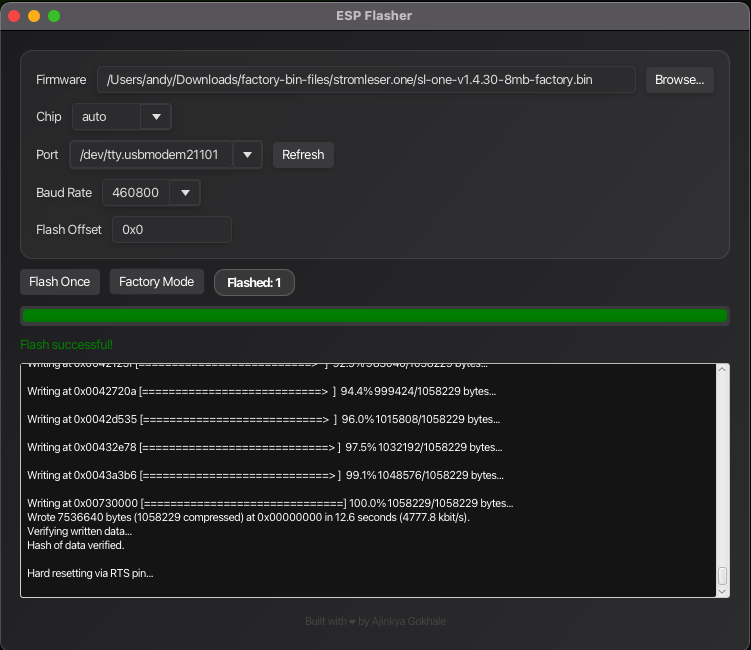
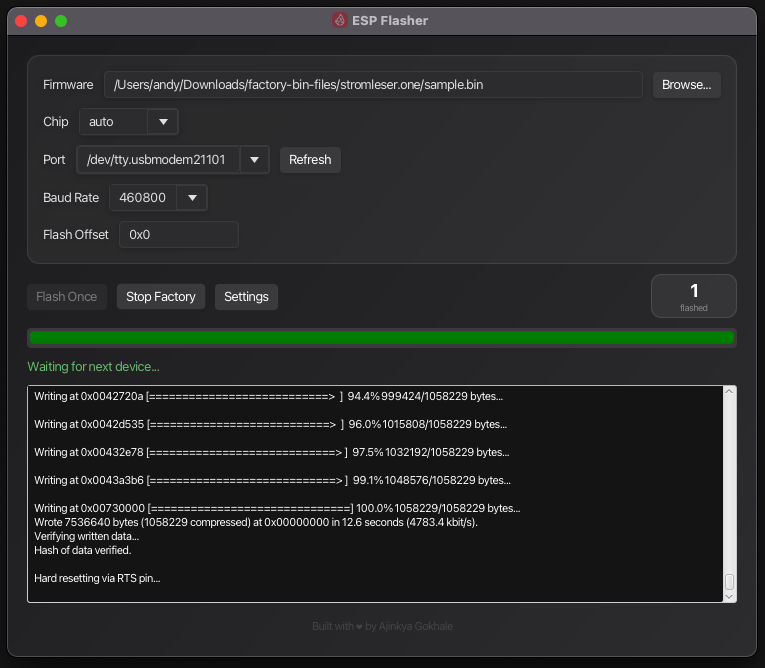
readme-updated

diff --git a/README.md b/README.md
@@ -1,333 +1,128 @@
-# ESP Flasher — Cross-Platform GUI Firmware Flashing Tool for ESP32 and ESP8266
+# ESP Flasher — GUI Firmware Flashing Tool for ESP32 and ESP8266
 
-**ESP Flasher** is a free, open-source desktop application for flashing firmware to Espressif **ESP32**, **ESP32-S2/S3/C3/C6/H2**, and **ESP8266** microcontrollers. It provides a clean JavaFX graphical interface on top of the official [`esptool`](https://github.com/espressif/esptool) — a modern alternative to **Tasmotizer**, the **Tasmota Web Installer**, and **ESP Flash Download Tool** that runs natively on macOS and Windows.
+**ESP Flasher** is a free, open-source desktop app for flashing firmware to Espressif **ESP32**, **ESP32-S2/S3/C3/C6/H2**, and **ESP8266** microcontrollers. It wraps the official [`esptool`](https://github.com/espressif/esptool) in a native JavaFX GUI — no command line needed.
 
-If you have ever fought with the `esptool.py` command line, hunted for the right baud rate, or needed to flash the same firmware onto dozens of boards on a production line, ESP Flasher is built for you.
+Works on **macOS** (Apple Silicon + Intel) and **Windows**. Flash **Tasmota**, **ESPHome**, **WLED**, **MicroPython**, **Arduino**, and custom ESP-IDF firmware from a single `.bin` file. A modern alternative to **Tasmotizer** and the **Espressif Flash Download Tool** that runs natively on Mac.
 
----
-
-## Table of Contents
-
-- [Why ESP Flasher](#why-esp-flasher)
-- [Features](#features)
-- [Supported Espressif Chips](#supported-espressif-chips)
-- [ESP Flasher vs Tasmotizer vs ESP Flash Download Tool](#esp-flasher-vs-tasmotizer-vs-esp-flash-download-tool)
-- [Screenshots](#screenshots)
-- [Download and Installation](#download-and-installation)
-- [Prerequisites](#prerequisites)
-- [How to Flash an ESP32 — Step by Step](#how-to-flash-an-esp32--step-by-step)
-- [Factory Mode for Mass Flashing](#factory-mode-for-mass-flashing)
-- [How It Works](#how-it-works)
-- [Building From Source](#building-from-source)
-- [Releases](#releases)
-- [Troubleshooting](#troubleshooting)
-- [FAQ](#faq)
-- [Contributing](#contributing)
-- [License](#license)
-- [Credits](#credits)
-
----
-
-## Why ESP Flasher
-
-Most ESP32 / ESP8266 firmware flashing tools fall into one of three buckets:
-
-- **Command-line `esptool`** — powerful but unforgiving, with no progress UI and no port auto-detection.
-- **Browser-based flashers** (Tasmota Web Installer, ESP Web Tools) — convenient, but tied to Chrome's Web Serial API and not suitable for offline or production environments.
-- **Vendor GUIs** (Espressif Flash Download Tool, Tasmotizer) — Windows-first, Python-heavy, and not designed for repeated batch flashing.
-
-ESP Flasher fills the gap: a small, native, cross-platform GUI that drives the same battle-tested `esptool` underneath, with a dedicated **Factory Mode** for flashing many boards in sequence.
+![ESP Flasher main window on macOS — flashing an ESP32 firmware binary](docs/screenshots/main.png)
 
 ---
 
 ## Features
 
-- Native installers for **macOS** (`.dmg`) and **Windows** (`.msi`) — no Python GUI required to launch
-- Automatic detection of ESP32 and ESP8266 serial ports (CP210x, CH340, FTDI)
-- Selectable **chip type**, **baud rate** up to 921600, and custom **flash offset**
-- Live progress bar and full real-time `esptool` log output
-- Audible success / failure feedback for hands-free workflows
-- **Factory Mode** — auto-flashes every ESP board the moment it is connected
+- Native `.dmg` and `.msi` installers — no Python GUI required to launch
+- Automatic ESP32/ESP8266 serial port detection (CP210x, CH340, FTDI)
+- Selectable chip type, baud rate up to 921600, and custom flash offset
+- Live progress bar and real-time `esptool` log output
+- **Factory Mode** — auto-flashes every ESP board the moment it is plugged in
 - One-click `esptool` install via `pip` if it is missing
 - Automatic light / dark theme based on system appearance
 - Persistent flash counter for production runs
-- 100% open source under the MIT license
+- 100% open source — MIT license, no telemetry
 
 ---
 
-## Supported Espressif Chips
+## Download
 
-ESP Flasher supports every chip the underlying `esptool` supports:
+| Platform | Installer |
+| -------- | --------- |
+| macOS (Apple Silicon & Intel) | [ESP.Flasher-1.0.3.dmg](https://github.com/AjinkyaGokhale/esp-flasher-java/releases/download/v1.0.3/ESP.Flasher-1.0.3.dmg) |
+| Windows | [ESP.Flasher-1.0.3.msi](https://github.com/AjinkyaGokhale/esp-flasher-java/releases/download/v1.0.3/ESP.Flasher-1.0.3.msi) |
 
-`auto` (autodetect), **ESP32**, **ESP32-S2**, **ESP32-S3**, **ESP32-C3**, **ESP32-C6**, **ESP32-H2**, **ESP8266**.
-
-Common boards that work out of the box: NodeMCU, Wemos D1 Mini, ESP32 DevKitC, ESP32-S3 DevKitC, ESP32-C3 SuperMini, M5Stack, Seeed XIAO ESP32 series, LilyGO T-Display, Adafruit Feather ESP32, Sonoff Basic / Mini (for Tasmota, ESPHome, WLED firmware), and most generic Espressif modules.
-
----
-
-## ESP Flasher vs Tasmotizer vs ESP Flash Download Tool
-
-| Capability                   | ESP Flasher              | Tasmotizer              | ESP Flash Download Tool | esptool CLI       |
-| ---------------------------- | ------------------------ | ----------------------- | ----------------------- | ----------------- |
-| macOS native installer       | Yes (.dmg)               | No (Python required)    | No                      | CLI only          |
-| Windows native installer     | Yes (.msi)               | Yes                     | Yes                     | CLI only          |
-| Auto-detects ESP serial port | Yes                      | Partial                 | No                      | No                |
-| Factory / batch flash mode   | Yes                      | No                      | Limited                 | Scripted          |
-| Tasmota / ESPHome / WLED     | Yes (any `.bin`)         | Tasmota-only            | Yes                     | Yes               |
-| Open source                  | Yes (MIT)                | Yes (GPL)               | No                      | Yes (GPL)         |
-| Dark mode                    | Yes (auto)               | No                      | No                      | N/A               |
-
-ESP Flasher is a **drop-in alternative for Tasmotizer users on macOS** and a lighter alternative to the Espressif Flash Download Tool for anyone flashing custom firmware (Tasmota, ESPHome, WLED, MicroPython, Arduino sketches, ESP-IDF builds).
-
----
-
-## Screenshots
-
-![ESP Flasher main window on macOS — flashing an ESP32 firmware binary](docs/screenshots/main.png)
-
-*ESP Flasher on macOS in dark mode, mid-flash of an 8 MB factory binary at 460800 baud.*
-
----
-
-## Download and Installation
-
-Download the latest installer for your platform from the
-[GitHub Releases](https://github.com/AjinkyaGokhale/esp-flasher-java/releases/latest) page:
-
-| Platform | Download                                                                                                                                                                    | Notes                                          |
-| -------- | --------------------------------------------------------------------------------------------------------------------------------------------------------------------------- | ---------------------------------------------- |
-| macOS    | [ESP.Flasher-1.0.3.dmg](https://github.com/AjinkyaGokhale/esp-flasher-java/releases/download/v1.0.3/ESP.Flasher-1.0.3.dmg)   | Apple Silicon and Intel. Unsigned (see below). |
-| Windows  | [ESP.Flasher-1.0.3.msi](https://github.com/AjinkyaGokhale/esp-flasher-java/releases/download/v1.0.3/ESP.Flasher-1.0.3.msi)   | Unsigned (see below).                          |
-
-### macOS — install
-
-1. Open the `.dmg` file and drag **ESP Flasher** into your Applications folder.
-2. The build is currently unsigned. If macOS Gatekeeper blocks the app, run:
-
+**macOS:** Drag to Applications. If Gatekeeper blocks it:
 ```bash
 xattr -cr "/Applications/ESP Flasher.app"
 ```
 
-### Windows — install
+**Windows:** Run the `.msi`. If SmartScreen warns you, choose **More info → Run anyway**.
 
-1. Run the `.msi` installer and follow the setup wizard.
-2. SmartScreen may show a warning the first time. Choose **More info → Run anyway**.
+Both installers are currently unsigned.
 
 ---
 
 ## Prerequisites
 
-ESP Flasher delegates the actual flashing to [`esptool`](https://github.com/espressif/esptool), which requires Python 3.
-
-| Requirement | Notes                                                                                            |
-| ----------- | ------------------------------------------------------------------------------------------------ |
-| Python 3.x  | Required. macOS users can install via [python.org](https://python.org) or Homebrew.              |
-| `esptool`   | The app detects and offers to install it via `pip` on first launch if it is missing.             |
-| USB drivers | Boards with CP210x or CH340 USB-to-serial chips need vendor drivers on Windows and older macOS.  |
-
-The app probes these locations for Python: `/opt/homebrew/bin/python3`, `/usr/local/bin/python3`, `/usr/bin/python3`, and `python3` / `python` / `py` from `PATH`.
+- **Python 3** — required by `esptool`. Install from [python.org](https://python.org) or Homebrew.
+- **`esptool`** — the app detects it and offers to install via `pip` on first launch.
+- **USB drivers** — boards with CP210x or CH340 USB-to-serial chips may need vendor drivers on Windows and older macOS.
 
 ---
 
-## How to Flash an ESP32 — Step by Step
+## How to Flash ESP32 or ESP8266 Firmware
 
-1. Click **Browse...** and pick your firmware `.bin` file (Tasmota, ESPHome, WLED, MicroPython, Arduino, or ESP-IDF builds all work).
+1. Click **Browse...** and pick your firmware `.bin` file (Tasmota, ESPHome, WLED, MicroPython, Arduino, or ESP-IDF).
 2. Select the **Chip** (or leave on `auto` to let `esptool` detect it).
-3. Select the **Port** for your board (use **Refresh** to rescan).
-4. Choose a **Baud Rate**. `460800` is a safe default; `921600` is faster if your USB-serial chip can handle it.
-5. Set the **Flash Offset**. Use `0x0` for merged/full ESP32 binaries, `0x1000` for ESP32 bootloader-only images, `0x10000` for application-only images, and `0x0` for ESP8266.
+3. Select the **Port** — click **Refresh** if your board isn't listed.
+4. Choose a **Baud Rate** — `460800` is a safe default; `921600` is faster if your USB-serial chip supports it.
+5. Set the **Flash Offset**: `0x0` for merged ESP32 binaries and all ESP8266, `0x1000` for ESP32 bootloader-only, `0x10000` for application-only.
 6. Click **Flash Once**.
 
-The log area mirrors the full `esptool` output in real time, including chip detection, MAC address, and flash progress.
+### Factory Mode — Mass Flash ESP Boards
+
+For flashing the same firmware onto many boards in sequence (production runs, classroom kits, repair shops):
+
+1. Select firmware, chip, baud rate, and offset.
+2. Click **Factory Mode** — the app waits for a device.
+3. Plug in a board. It flashes automatically.
+4. Unplug when done (green bar + chime), plug in the next one.
+5. Click **Stop Factory** when finished. The **Flashed:** counter tracks your total.
 
 ---
 
-## Factory Mode for Mass Flashing
+## Supported Espressif Chips
 
-**Factory Mode is built for factories and small manufacturers who need to flash the same firmware onto hundreds or thousands of ESP boards.** Instead of clicking through the UI for every single device, an operator just selects the firmware once, switches on Factory Mode, and then plugs and unplugs ESP devices one after another — the flasher auto-detects each new board on the USB bus and immediately flashes it.
+`auto` (autodetect), **ESP32**, **ESP32-S2**, **ESP32-S3**, **ESP32-C3**, **ESP32-C6**, **ESP32-H2**, **ESP8266**.
 
-This turns ESP Flasher into a true production-line tool: no port selection, no extra clicks, no chance of forgetting a step. An operator with no technical knowledge can run a flashing station all day.
-
-### How Factory Mode works
-
-1. **Select the firmware once.** Click **Browse...** and pick the `.bin` file you want to flash to every device.
-2. **Set chip, baud rate, and flash offset** for your target board. A port does **not** need to be selected — Factory Mode discovers it automatically.
-3. **Click Factory Mode** and confirm the dialog. The app now waits for any ESP device to appear on USB.
-4. **Plug in a board.** ESP Flasher detects the new serial port within a second, opens the connection, and flashes the selected firmware automatically. The progress bar and log update in real time.
-5. **Unplug the board** when the flash completes (green bar + success chime).
-6. **Plug in the next board.** Repeat — the cycle continues hands-free for as many units as you need.
-7. **Watch the Flashed: counter** in the toolbar to track how many units have been completed in the current session.
-8. **Click Stop Factory** when the batch is done.
-
-### Why this matters for production
-
-- **Throughput.** A trained operator can comfortably flash one board every 10–15 seconds — that is 240+ boards per hour with no command-line interaction.
-- **Zero configuration per unit.** Each device uses the exact same firmware, chip type, baud rate, and offset — guaranteeing consistency across the entire batch.
-- **Mistake-proof.** There is no port dropdown to misclick and no command to mistype, which removes the most common sources of human error on a manual flashing line.
-- **Audible feedback.** Success and failure tones let an operator keep their eyes on the boards instead of the screen.
-- **Built-in counter.** The persistent **Flashed:** badge doubles as a simple production tally for shift reporting.
-
-Factory Mode is ideal for small-batch IoT product manufacturers, contract assemblers, hardware startups doing their first production run, repair shops re-flashing returned units, and educational kit makers preparing classroom sets.
-
----
-
-## How It Works
-
-```mermaid
-flowchart LR
-    UI[FlasherApp - JavaFX UI]
-    PRQ[PrereqChecker]
-    PW[PortWatcher - jSerialComm]
-    ER[EsptoolRunner]
-    ET[esptool - Python]
-    DEV[ESP Device]
-
-    UI -->|verify Python and esptool| PRQ
-    UI -->|watch for new ports| PW
-    PW -->|onNewPort| UI
-    UI -->|FlashConfig| ER
-    ER -->|spawn process| ET
-    ET -->|serial| DEV
-    ET -->|stdout / progress| ER
-    ER -->|onLog / onProgress / onComplete| UI
-```
-
-- **`PrereqChecker`** locates Python, `pip`, and `esptool`, and can install `esptool` via `pip install --break-system-packages esptool`.
-- **`PortWatcher`** (jSerialComm) lists serial ports and filters for ESP-like USB descriptors; in Factory Mode it polls for newly attached devices and notifies the UI.
-- **`EsptoolRunner`** spawns `esptool write_flash` as a subprocess, streams stdout, parses progress percentages, and reports completion.
-- **`FlasherApp`** is the JavaFX `Application` and implements `FlashListener` / `PortListener` to receive callbacks on the JavaFX thread.
+Works with NodeMCU, Wemos D1 Mini, ESP32 DevKitC, ESP32-S3 DevKitC, ESP32-C3 SuperMini, M5Stack, Seeed XIAO ESP32, LilyGO T-Display, Adafruit Feather ESP32, Sonoff Basic/Mini, and most generic Espressif modules.
 
 ---
 
 ## Building From Source
 
-### Requirements
-
-- JDK 17 or newer (the release workflow uses JDK 21)
-- Maven, or the included `mvnw` wrapper
-
-### Build a runnable fat jar
+Requires JDK 17+ and Maven (or the included `mvnw` wrapper).
 
 ```bash
+# Run from source
 ./mvnw clean package
 java -jar target/espflasher-1.0.3.jar
-```
 
-### Build a native installer
-
-`jpackage` ships with the JDK. The Maven profile picks the right format for your OS automatically (DMG on macOS, MSI on Windows).
-
-```bash
+# Build native installer (DMG on macOS, MSI on Windows)
 ./mvnw clean package
 ./mvnw jpackage:jpackage
-```
-
-Output is written to `target/dist/`.
-
----
-
-## Releases
-
-Tagged pushes (`v*`) trigger the GitHub Actions workflow in `.github/workflows/`, which builds the macOS DMG and Windows MSI in parallel and attaches them to a GitHub Release.
-
-To cut a release:
-
-```bash
-git tag v1.0.2
-git push origin v1.0.2
+# Output: target/dist/
 ```
 
 ---
 
 ## Troubleshooting
 
-| Symptom                                              | Likely cause and fix                                                                                          |
-| ---------------------------------------------------- | -------------------------------------------------------------------------------------------------------------- |
-| "Python not found"                                   | Install Python 3 from [python.org](https://python.org) and restart the app.                                    |
-| "esptool not found — click here to install"          | Click the status label, or run `python3 -m pip install esptool` manually.                                      |
-| No ports listed                                      | Install your board's USB-to-serial driver (CP210x, CH340, or FTDI), then click **Refresh**.                    |
-| "Failed to connect to ESP*: Timed out"               | Hold the BOOT button while plugging in or starting the flash. Try a lower baud (e.g. `115200`).                |
-| macOS: "App is damaged and can't be opened"          | `xattr -cr "/Applications/ESP Flasher.app"`                                                              |
-| Flash succeeds but firmware does not run             | Check the **Flash Offset**. Many ESP32 boards expect `0x1000` or `0x10000` instead of `0x0`.                    |
+| Symptom | Fix |
+| ------- | --- |
+| "Python not found" | Install Python 3 from [python.org](https://python.org) and restart. |
+| "esptool not found" | Click the status label, or run `python3 -m pip install esptool`. |
+| No ports listed | Install your board's USB-serial driver (CP210x, CH340, FTDI), then click **Refresh**. |
+| "Timed out connecting to ESP" | Hold BOOT while plugging in. Try a lower baud rate (e.g. `115200`). |
+| macOS: "App is damaged and can't be opened" | `xattr -cr "/Applications/ESP Flasher.app"` |
+| Firmware doesn't run after flash | Check the flash offset — many ESP32 images need `0x1000` or `0x10000`. |
 
-Full `esptool` output is always available in the log area at the bottom of the window — copy it when filing an issue.
-
----
-
-## FAQ
-
-**Is ESP Flasher free?**
-Yes. It is fully open source under the MIT license. No ads, no telemetry, no paywalled features.
-
-**Can I flash Tasmota with ESP Flasher?**
-Yes. Download any `tasmota*.bin` from the Tasmota release page and flash at offset `0x0` for ESP8266 or the appropriate offset for your ESP32 variant.
-
-**Can I flash ESPHome firmware?**
-Yes. Export the compiled binary from the ESPHome dashboard (`Download → Modern format`) and flash it like any other `.bin`.
-
-**Can I flash WLED?**
-Yes. Pick the WLED ESP8266 or ESP32 binary that matches your board and flash at offset `0x0`.
-
-**Does it work on Linux?**
-The code is pure Java + JavaFX and will run on Linux from source. Pre-built Linux installers are not yet published — contributions to the release workflow are welcome.
-
-**Does it require an internet connection?**
-Only the first launch, if `esptool` is not already installed (so `pip` can fetch it). After that everything is offline.
-
-**Is the build signed?**
-Not yet. The macOS DMG and Windows MSI are unsigned; instructions for bypassing Gatekeeper / SmartScreen are above.
+The full `esptool` output is visible in the log area — include it when filing an issue.
 
 ---
 
 ## Contributing
 
-Contributions are welcome. Please read [CONTRIBUTING.md](CONTRIBUTING.md) for development setup, coding conventions, and the pull-request workflow.
-
-If you have found a bug or want a new feature, open an [issue](../../issues) first so we can discuss the approach.
-
----
+Open an [issue](../../issues) before starting work. See [CONTRIBUTING.md](CONTRIBUTING.md) for setup and conventions.
 
 ## License
 
-Released under the [MIT License](LICENSE).
-
-```
-MIT License
-
-Copyright (c) 2026 Ajinkya Gokhale
-
-Permission is hereby granted, free of charge, to any person obtaining a copy
-of this software and associated documentation files (the "Software"), to deal
-in the Software without restriction, including without limitation the rights
-to use, copy, modify, merge, publish, distribute, sublicense, and/or sell
-copies of the Software, and to permit persons to whom the Software is
-furnished to do so, subject to the following conditions:
-
-The above copyright notice and this permission notice shall be included in all
-copies or substantial portions of the Software.
-
-THE SOFTWARE IS PROVIDED "AS IS", WITHOUT WARRANTY OF ANY KIND, EXPRESS OR
-IMPLIED, INCLUDING BUT NOT LIMITED TO THE WARRANTIES OF MERCHANTABILITY,
-FITNESS FOR A PARTICULAR PURPOSE AND NONINFRINGEMENT. IN NO EVENT SHALL THE
-AUTHORS OR COPYRIGHT HOLDERS BE LIABLE FOR ANY CLAIM, DAMAGES OR OTHER
-LIABILITY, WHETHER IN AN ACTION OF CONTRACT, TORT OR OTHERWISE, ARISING FROM,
-OUT OF OR IN CONNECTION WITH THE SOFTWARE OR THE USE OR OTHER DEALINGS IN THE
-SOFTWARE.
-```
-
----
+[MIT](LICENSE) — © 2026 Ajinkya Gokhale
 
 ## Credits
 
-- [Espressif Systems](https://github.com/espressif/esptool) — `esptool`, which does the actual flashing.
-- [Fazecast](https://github.com/Fazecast/jSerialComm) — `jSerialComm` for cross-platform serial port access.
-- [OpenJFX](https://openjfx.io) — the JavaFX runtime.
-- Built and maintained by [Ajinkya Gokhale](https://github.com/AjinkyaGokhale) ([@AjinkyaGokhale](https://github.com/AjinkyaGokhale)).
-
-## Maintainers
-
-- [@AjinkyaGokhale](https://github.com/AjinkyaGokhale) — creator and lead maintainer
+- [Espressif Systems](https://github.com/espressif/esptool) — `esptool`
+- [Fazecast](https://github.com/Fazecast/jSerialComm) — `jSerialComm`
+- [OpenJFX](https://openjfx.io) — JavaFX runtime
 
 ---
 
-**Keywords:** ESP32 flasher, ESP8266 flasher, esptool GUI, Tasmotizer alternative, Tasmota flasher macOS, ESPHome flash tool, WLED flasher, ESP firmware flashing tool, ESP32-C3 flasher, ESP32-S3 flasher, mass flashing ESP32, factory flashing tool, JavaFX esptool, open-source ESP flasher.
+*Keywords: ESP32 flasher, ESP8266 flasher, esptool GUI, flash ESP32 firmware Mac, Tasmotizer alternative macOS, Tasmota flasher, ESPHome flash tool, WLED flasher, ESP32-C3 flasher, ESP32-S3 flasher, factory flash ESP32, mass flashing tool, ESP firmware upload tool.*